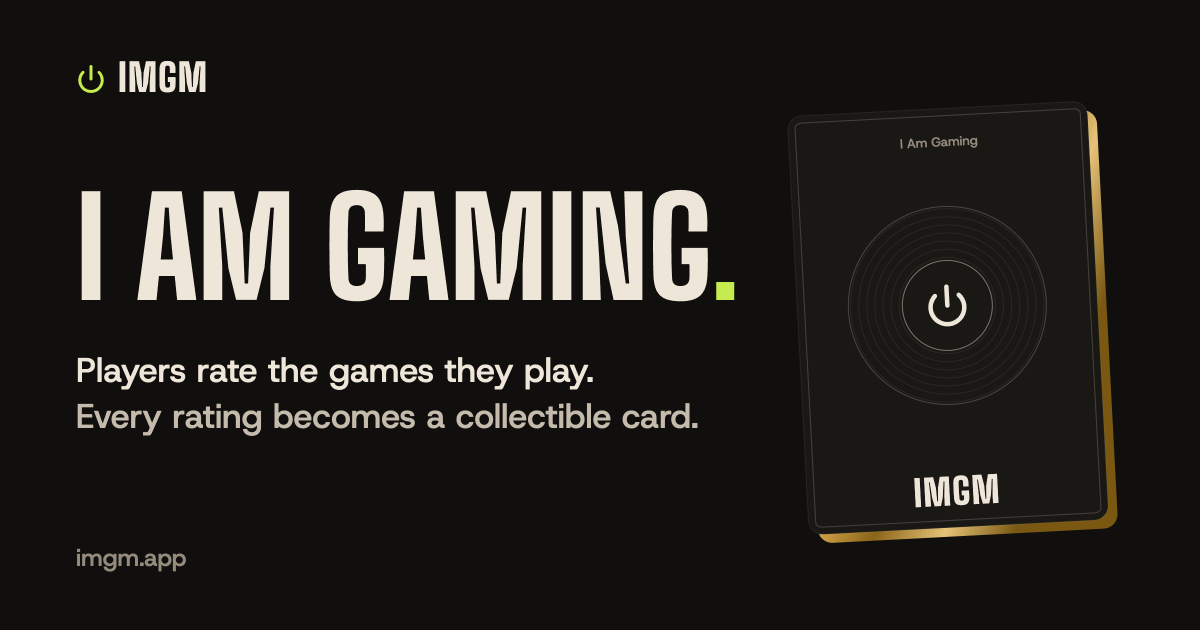
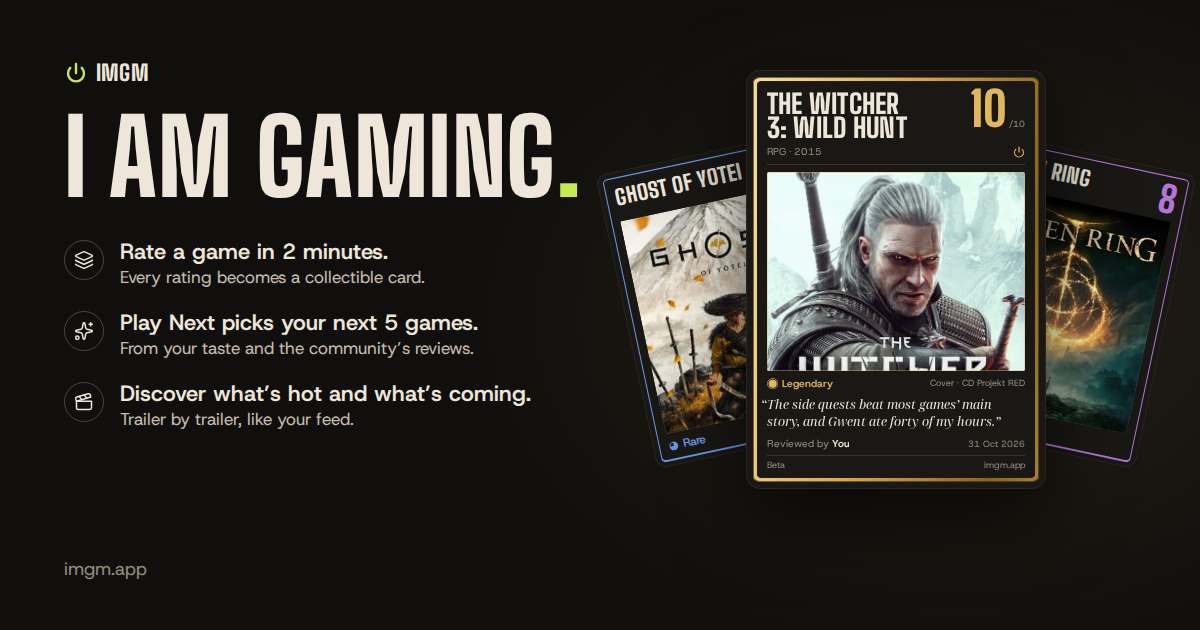
Share picture: the site's own cards fanned (Witcher 3 Legendary in front, Ghost of Yōtei and Elden Ring) beside I AM GAMING. and three features (rate and collect, Play Next, Discover); new share text; ?v=2 so apps fetch the new picture. Docs: the handoff

diff --git a/imgm-client/index.html b/imgm-client/index.html
@@ -9,17 +9,20 @@
     <meta property="og:type" content="website" />
     <meta property="og:site_name" content="IMGM" />
     <meta property="og:title" content="IMGM · I Am Gaming" />
-    <meta property="og:description" content="Players rate the games they play. Every rating becomes a collectible card." />
+    <meta property="og:description" content="Rate a game in 2 minutes and collect its card. Play Next picks your next 5 games, and Discover shows what's hot and coming, trailer by trailer." />
     <meta property="og:url" content="https://imgm.app/" />
     <!-- The picture a shared link shows (1200x630, the size Facebook, X, Discord and
-         WhatsApp all crop well); the large card puts it full width on X -->
-    <meta property="og:image" content="https://imgm.app/og-image.png" />
+         WhatsApp all crop well); the large card puts it full width on X. It's the site's
+         own cards (Witcher 3 Legendary between Ghost of Yōtei and Elden Ring) beside the
+         three features; ?v= changes with the picture, so apps that keep old previews
+         fetch the new one. -->
+    <meta property="og:image" content="https://imgm.app/og-image.png?v=2" />
     <meta property="og:image:width" content="1200" />
     <meta property="og:image:height" content="630" />
-    <meta property="og:image:alt" content="IMGM: players rate the games they play, and every rating becomes a collectible card" />
+    <meta property="og:image:alt" content="IMGM, I am gaming: rate a game in 2 minutes and collect its card, Play Next picks your next 5 games, Discover shows what's hot and coming. Beside it, three IMGM cards: The Witcher 3 Legendary 10, Ghost of Yōtei and Elden Ring" />
     <meta name="twitter:card" content="summary_large_image" />
-    <meta name="twitter:image" content="https://imgm.app/og-image.png" />
-    <meta name="twitter:image:alt" content="IMGM: players rate the games they play, and every rating becomes a collectible card" />
+    <meta name="twitter:image" content="https://imgm.app/og-image.png?v=2" />
+    <meta name="twitter:image:alt" content="IMGM, I am gaming: rate a game in 2 minutes and collect its card, Play Next picks your next 5 games, Discover shows what's hot and coming. Beside it, three IMGM cards: The Witcher 3 Legendary 10, Ghost of Yōtei and Elden Ring" />
     <!-- Tells Google the site's name, so searching "IMGM" or "I Am Gaming" finds it -->
     <script type="application/ld+json">
       { "@context": "https://schema.org", "@type": "WebSite", "name": "IMGM", "alternateName": ["I Am Gaming", "imgm.app"], "url": "https://imgm.app/" }

diff --git a/docs/HANDOFF.md b/docs/HANDOFF.md
@@ -15,7 +15,7 @@
 - Play Next is open to every player. The site as a whole is a public beta.
 - The laptop is up to date. **The desktop needs** `git pull`, then `prisma migrate deploy` + `prisma generate` in `imgm-server` (2 new migrations: `steam_library`, `steam_shared_games`), a `STEAM_API_KEY` in its `imgm-server/.env`, and a restart of `imgm-server` and `imgm-client`.
 
-- **On `development`, not released yet** (the user releases it; Claude's push to `main` is blocked by auto mode until `.claude/settings.local.json` allows it): Discover on phones covers the whole screen (X to leave); a full screen button (standard or WebKit-prefixed API; on Safari iPhone it clears the screen instead); upright screens show the trailer 4:3 across the top over the key art; YouTube trailers start muted and show only once playing (GTA VI on iPhone); descriptions open in full (more / less); the actions are a column at the right edge, sound first; muting with the speaker sticks; **comments** (`DiscoverComment` + likes + reports, migration `discover_comments`): Discover only, most liked first, TikTok-style replies one level deep, delete your own, report others (emailed to FEEDBACK_EMAIL, 3 reports hide one), links and slurs refused (`lib/commentFilter.js`), 5 a minute and 60 a day per player. On release: 1 migration (Render runs it).
+- **On `development`, not released yet** (the user releases it; Claude's push to `main` is blocked by auto mode until `.claude/settings.local.json` allows it): Discover on phones covers the whole screen (X to leave); a full screen button (standard or WebKit-prefixed API; on Safari iPhone it clears the screen instead); upright screens show the trailer 4:3 across the top over the key art; YouTube trailers start muted and show only once playing (GTA VI on iPhone); descriptions open in full (more / less); the actions are a column at the right edge, sound first; muting with the speaker sticks; **comments** (`DiscoverComment` + likes + reports, migration `discover_comments`): Discover only, most liked first, TikTok-style replies one level deep, delete your own, report others (emailed to FEEDBACK_EMAIL, 3 reports hide one), links and slurs refused (`lib/commentFilter.js`), 5 a minute and 60 a day per player. On release: 1 migration (Render runs it). Also on `development`: upright phones keep the site's header (trailer at the top, the game's art under it), the sound's icon in the middle like Reels, actions at a phone's edge, see-through comments, and a **new share picture** (`public/og-image.png`, `?v=2`): the site's real cards fanned (Witcher 3 Legendary 10 in front, Ghost of Yōtei and Elden Ring) beside "I AM GAMING." and three features. It mentions Discover, still a closed beta: release it with or after `DISCOVER=on`, or swap that line. It was drawn by rendering `CollectibleCard` on a temporary page (Vite) and screenshotting it at 1200x630.
 
 ## What the Steam release shipped
 - **Connect Steam and log in with it** (roiegold, `feature/steam-connect`): a Better Auth plugin for Steam's OpenID sign-in (`imgm-server/src/lib/steamAuth.js`), connecting from Settings, an email when Steam is connected, a password reset disconnects Steam.
